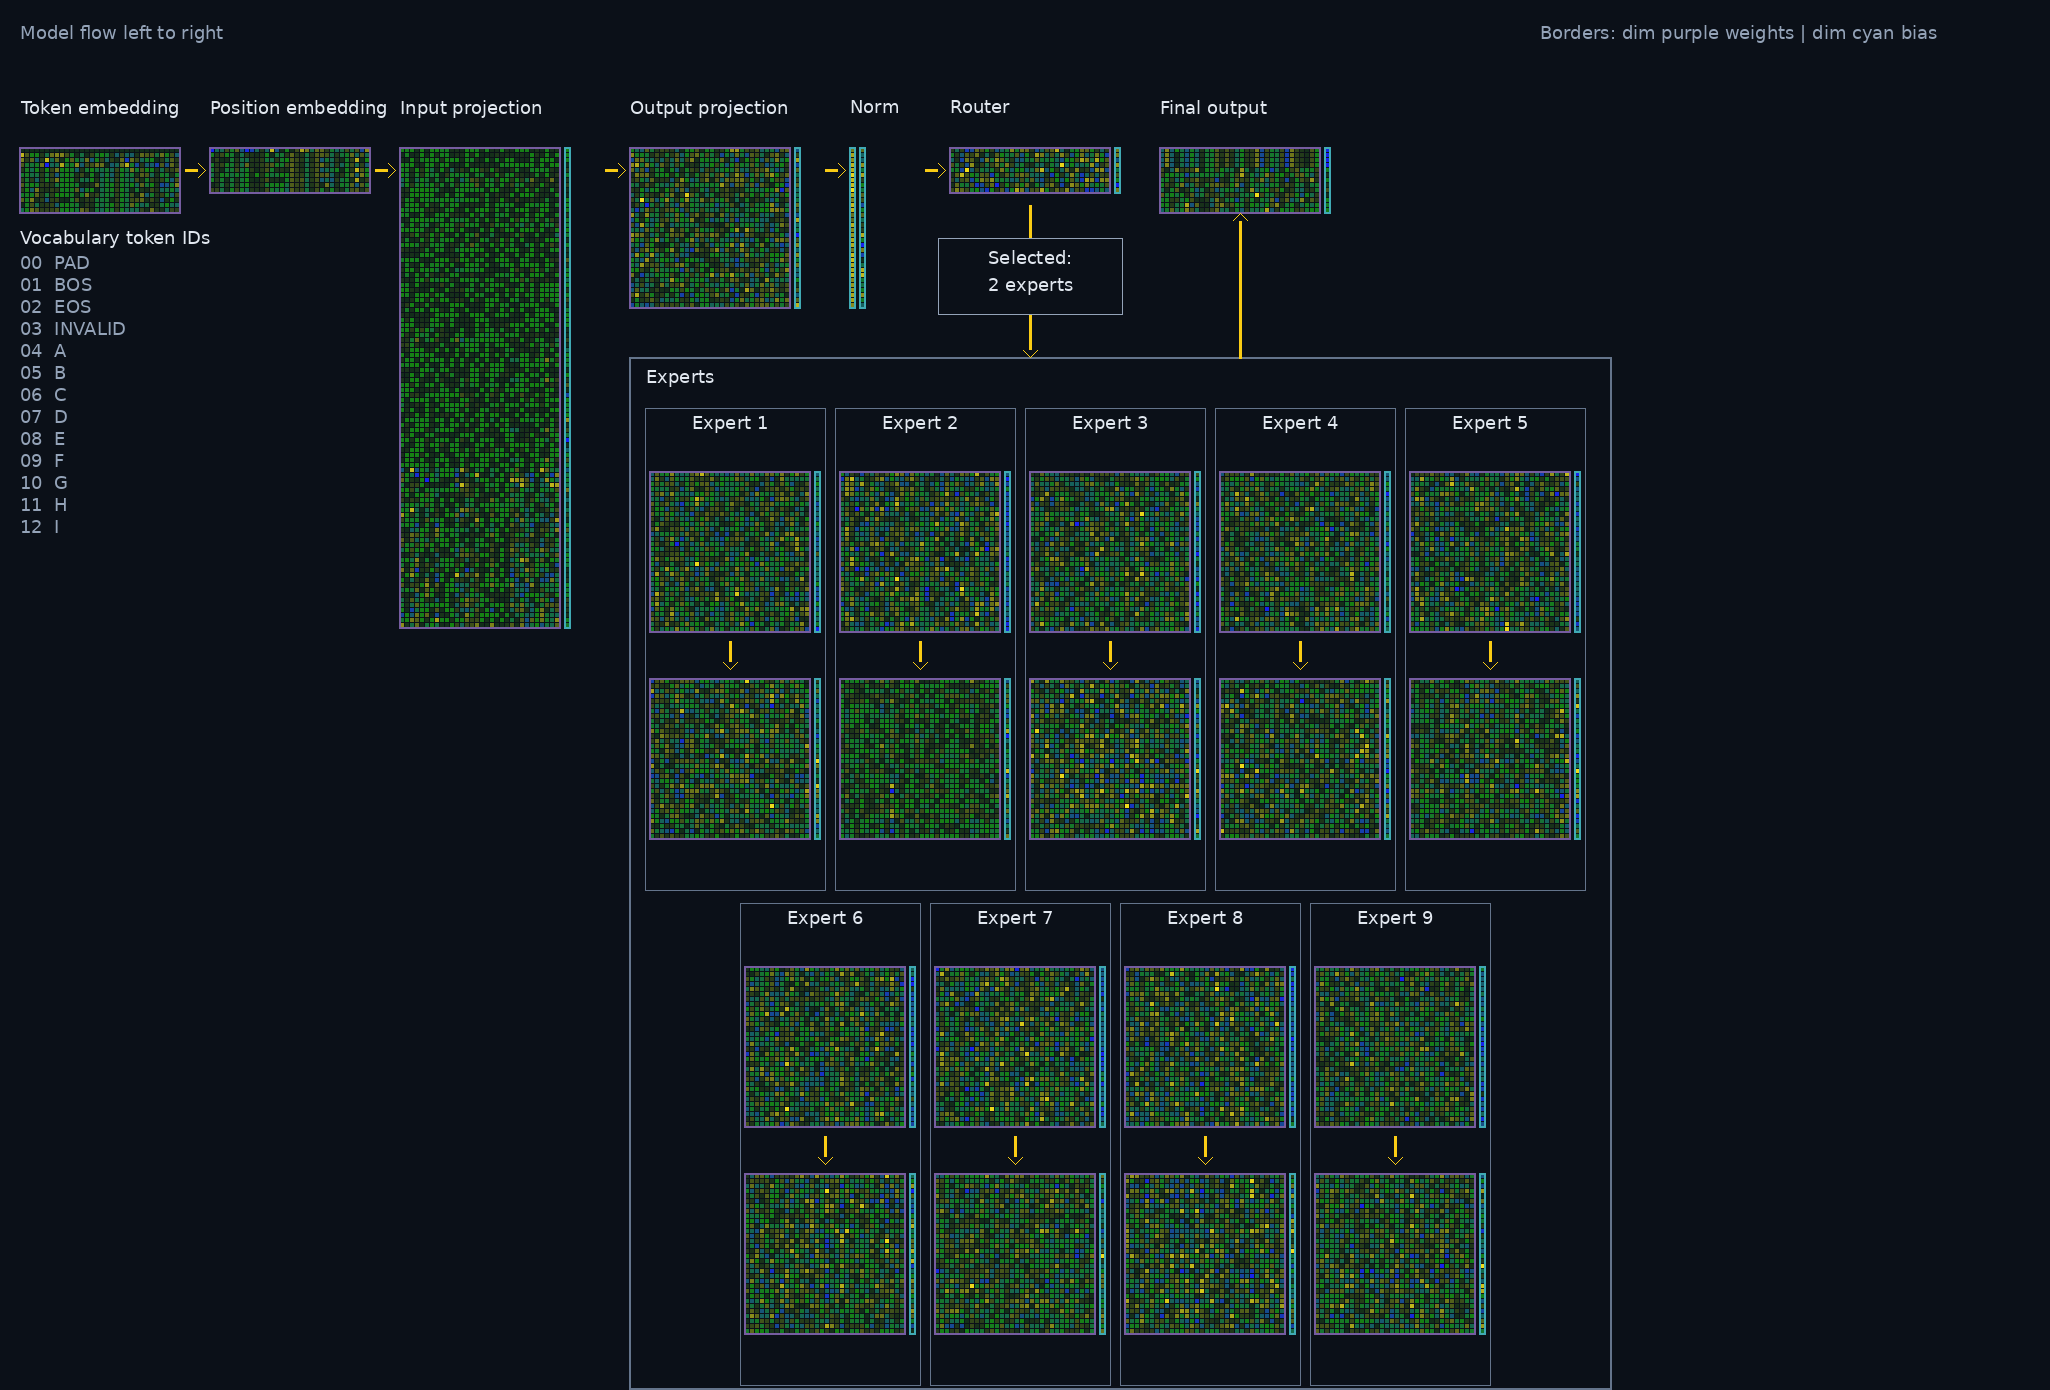
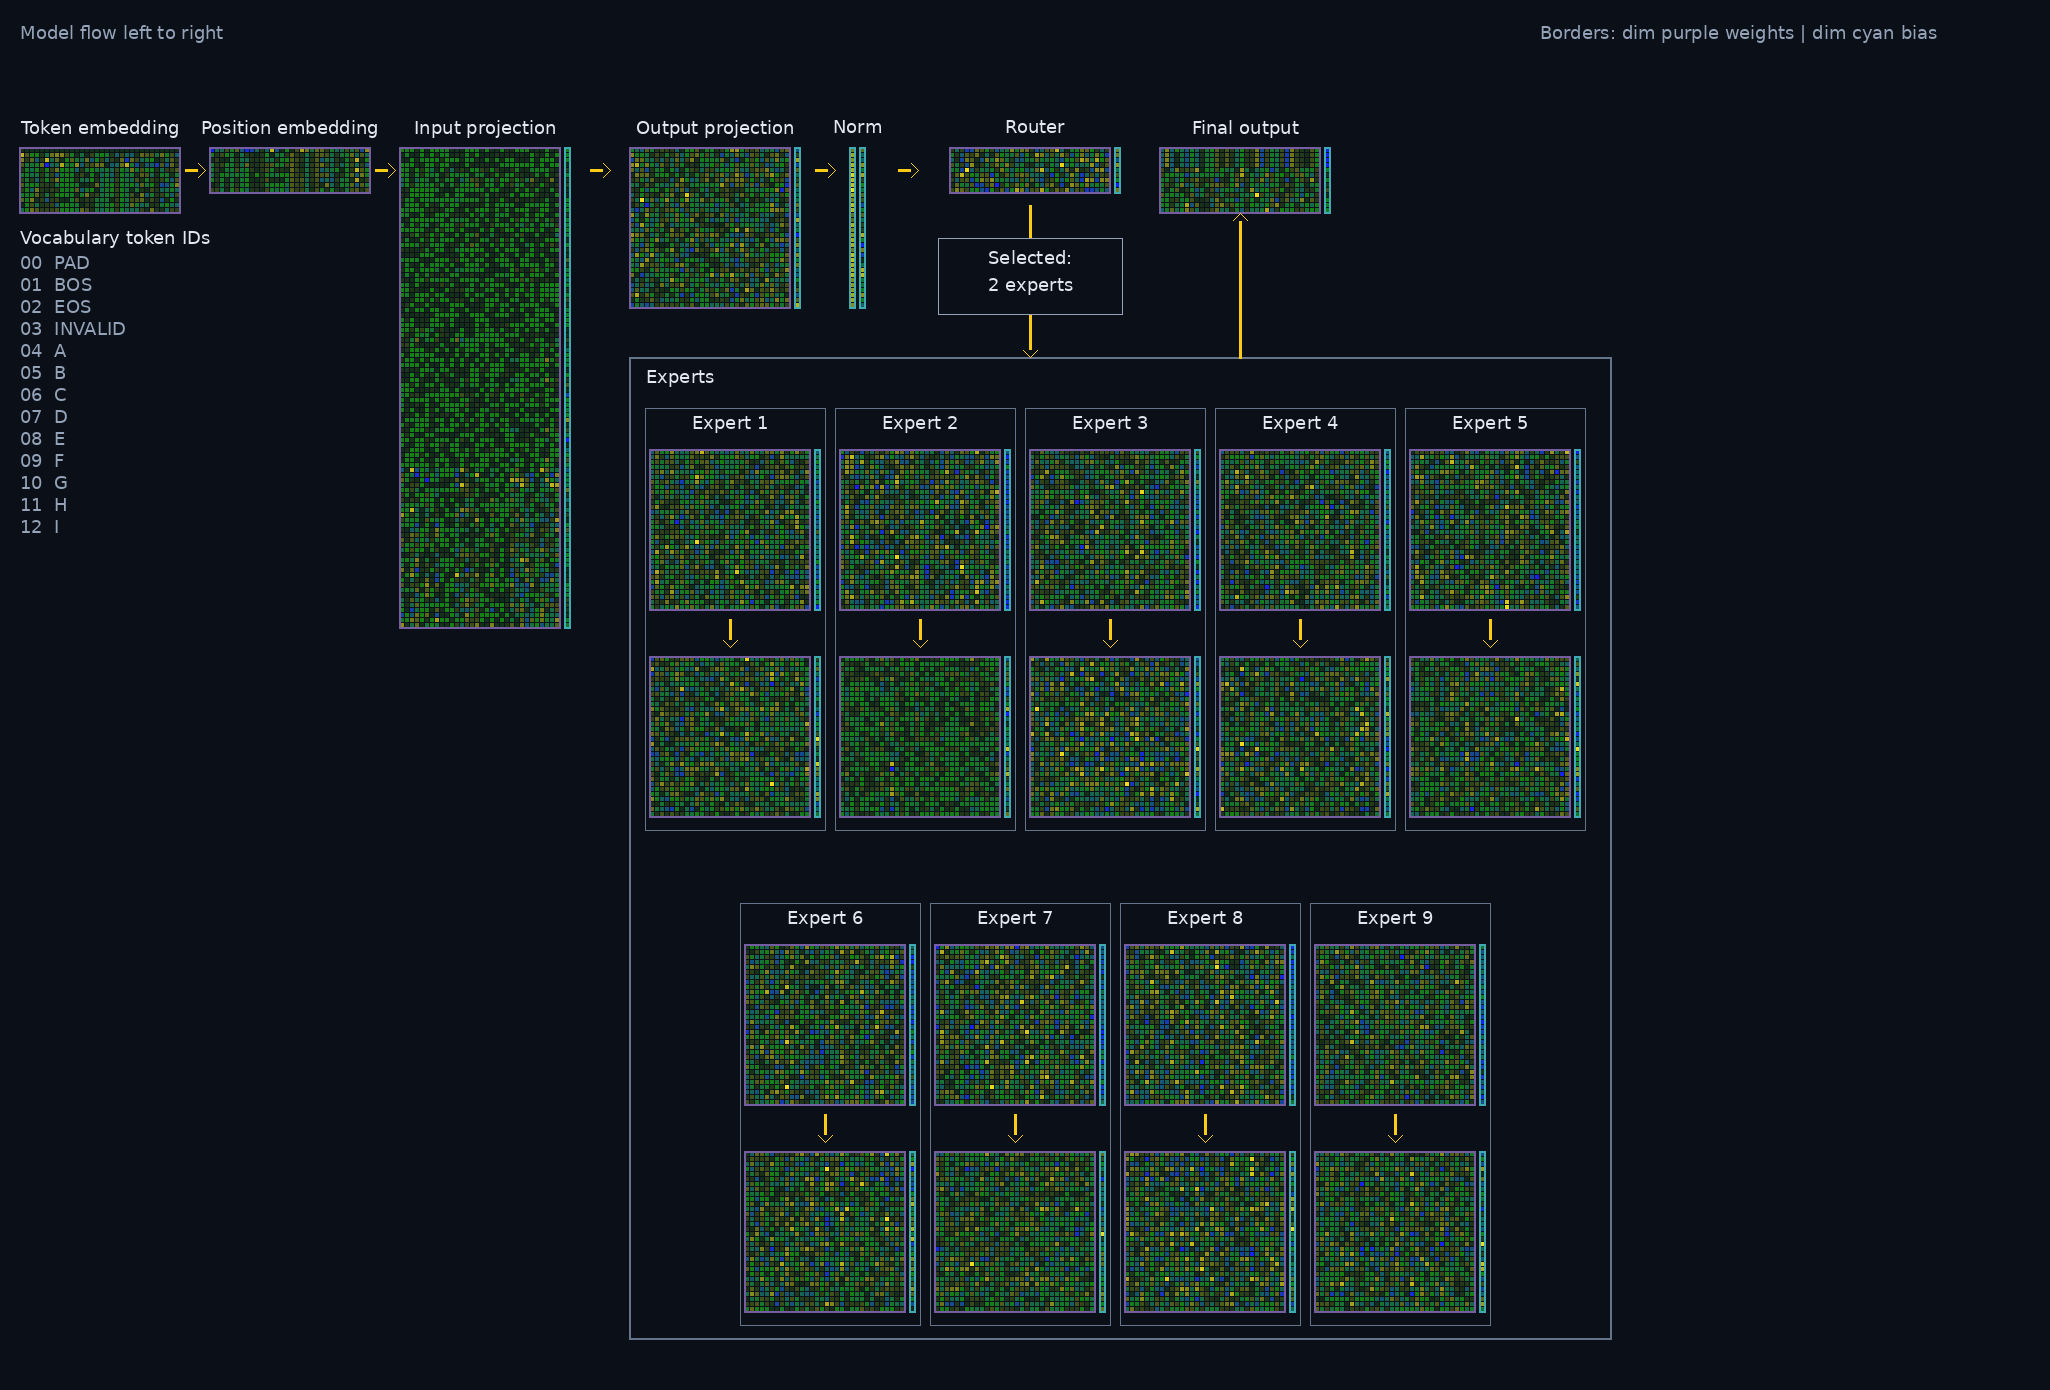
Tighten tensor inspector alignment

diff --git a/tools/tensor_inspector.py b/tools/tensor_inspector.py
@@ -148,7 +148,10 @@ def _arrow(rgb: bytearray, width: int, x1: int, y1: int, x2: int, y2: int) -> No
 
 
 def _render_pair(rgb: bytearray, width: int, state: dict[str, torch.Tensor], weight: str, bias: str, label: str, x: int, y: int) -> tuple[int, int]:
-    _text(rgb, width, x, y, label, _LABEL)
+    weight_columns = _shape(state[weight])[1]
+    total_width = weight_columns * _CELL + _CELL * 2
+    if label:
+        _centered_text(rgb, width, x + total_width // 2, y + 20, label, _LABEL)
     grid_y = y + _HEADER_HEIGHT
     weight_width, weight_height = _render_tensor(rgb, width, state[weight], x, grid_y)
     bias_x = x + weight_width + _CELL
@@ -157,7 +160,8 @@ def _render_pair(rgb: bytearray, width: int, state: dict[str, torch.Tensor], wei
 
 
 def _render_single(rgb: bytearray, width: int, state: dict[str, torch.Tensor], name: str, label: str, x: int, y: int) -> tuple[int, int]:
-    _text(rgb, width, x, y, label, _LABEL)
+    tensor_columns = _shape(state[name])[1]
+    _centered_text(rgb, width, x + tensor_columns * _CELL // 2, y + 20, label, _LABEL)
     tensor_width, tensor_height = _render_tensor(rgb, width, state[name], x, y + _HEADER_HEIGHT)
     return tensor_width, tensor_height + _HEADER_HEIGHT
 
@@ -195,15 +199,15 @@ def render_checkpoint_inspector(source: Path) -> tuple[bytes, dict[str, object]]
     # The position table is an explicit branch: small flow arrows enter and leave its matrix at the shared tensor centerline.
     _arrow(rgb, width, 185, flow_y, 205, flow_y)
     _arrow(rgb, width, 375, flow_y, 395, flow_y)
-    _arrow(rgb, width, 605, flow_y, 625, flow_y)
-    _arrow(rgb, width, 825, flow_y, 845, flow_y)
-    _arrow(rgb, width, 925, flow_y, 945, flow_y)
+    _arrow(rgb, width, 590, flow_y, 610, flow_y)
+    _arrow(rgb, width, 815, flow_y, 835, flow_y)
+    _arrow(rgb, width, 898, flow_y, 918, flow_y)
 
     # Begin below Output projection, then use a 5+4 grid so every expert can contain its full weight+bias pair.
     expert_y, expert_gap, expert_width = 400, 10, 180
     router_center = 1030
     expert_left, expert_right = 630, 1610
-    expert_top, expert_bottom = 358, 1388
+    expert_top, expert_bottom = 358, 1338
     _rectangle(rgb, width, expert_left, expert_top, expert_right - expert_left, expert_bottom - expert_top, _EXPERT_BORDER)
     _text(rgb, width, expert_left + 16, expert_top + 12, "Experts", _LABEL)
     _arrow(rgb, width, router_center, 205, router_center, expert_top - 1)
@@ -216,20 +220,20 @@ def render_checkpoint_inspector(source: Path) -> tuple[bytes, dict[str, object]]
         row, column = divmod(expert, 5)
         row_y = expert_y + row * 495
         x = (650 if row == 0 else 745) + column * (expert_width + expert_gap)
-        box_top, box_bottom = row_y + 8, row_y + 490
+        box_top, box_bottom = row_y + 8, row_y + 430
         _rectangle(rgb, width, x - 5, box_top, 180, box_bottom - box_top, _EXPERT_BORDER, 1)
         _centered_text(rgb, width, x + 80, box_top + 8, f"Expert {expert + 1}", _LABEL)
-        _render_pair(rgb, width, state, f"experts.{expert}.0.weight", f"experts.{expert}.0.bias", "", x, row_y + 24)
-        _render_pair(rgb, width, state, f"experts.{expert}.2.weight", f"experts.{expert}.2.bias", "", x, row_y + 231)
-        _arrow(rgb, width, x + 80, row_y + 241, x + 80, row_y + 269)
+        _render_pair(rgb, width, state, f"experts.{expert}.0.weight", f"experts.{expert}.0.bias", "", x, row_y + 2)
+        _render_pair(rgb, width, state, f"experts.{expert}.2.weight", f"experts.{expert}.2.bias", "", x, row_y + 209)
+        _arrow(rgb, width, x + 80, row_y + 219, x + 80, row_y + 247)
     # The return uses a straight reserved lane and terminates immediately below the Final output weight matrix.
     output_return_x, output_matrix_bottom = 1240, 213
     _arrow(rgb, width, output_return_x, expert_top, output_return_x, output_matrix_bottom)
 
     metadata = {
-        "format": "crystal-9-tensor-inspector-v13", "source": source.name,
+        "format": "crystal-9-tensor-inspector-v14", "source": source.name,
         "source_sha256": hashlib.sha256(source.read_bytes()).hexdigest(), "tensor_count": len(state),
-        "normalization": "per-tensor symmetric max-absolute", "layout": "architecture-flow-v13",
+        "normalization": "per-tensor symmetric max-absolute", "layout": "architecture-flow-v14",
         "bias_alignment": "vertical output-row axis", "sections": ["inputs", "attention", "norm_router", "experts", "output"],
         "legend": {"WEIGHTS": "matrix; rows are output features", "BIAS": "bias column; one value per output row", "B": "bias column; one value per output row"},
         "expert_layout": "five Expert boxes over four Expert boxes; each contains its first and second layer",

diff --git a/tests/test_tensor_inspector.py b/tests/test_tensor_inspector.py
@@ -15,7 +15,7 @@ def test_checkpoint_inspector_renders_actual_tensor_inventory_as_png():
     assert metadata["tensors"]["attention.in_proj_weight"]["shape"] == [96, 32]
     assert metadata["tensors"]["experts.0.0.weight"]["shape"] == [32, 32]
     assert metadata["normalization"] == "per-tensor symmetric max-absolute"
-    assert metadata["layout"] == "architecture-flow-v13"
+    assert metadata["layout"] == "architecture-flow-v14"
     assert metadata["bias_alignment"] == "vertical output-row axis"
     assert metadata["sections"][-2:] == ["experts", "output"]
     assert metadata["legend"]["B"] == "bias column; one value per output row"

diff --git a/tools/export_tensor_inspectors.py b/tools/export_tensor_inspectors.py
@@ -31,7 +31,7 @@ def main() -> None:
             "tensor_count": metadata["tensor_count"], "width": metadata["width"], "height": metadata["height"],
             "normalization": metadata["normalization"], "derived": True,
         })
-    (OUTPUT.parent / "inspectors.json").write_text(json.dumps({"format": "crystal-9-tensor-inspector-v13", "inspectors": inspectors}, indent=2) + "\n")
+    (OUTPUT.parent / "inspectors.json").write_text(json.dumps({"format": "crystal-9-tensor-inspector-v14", "inspectors": inspectors}, indent=2) + "\n")
 
 
 if __name__ == "__main__":
